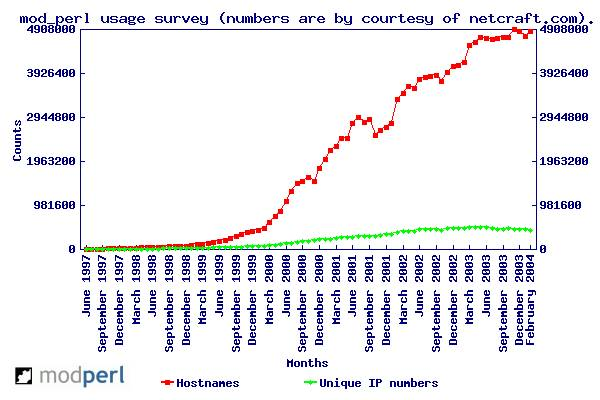
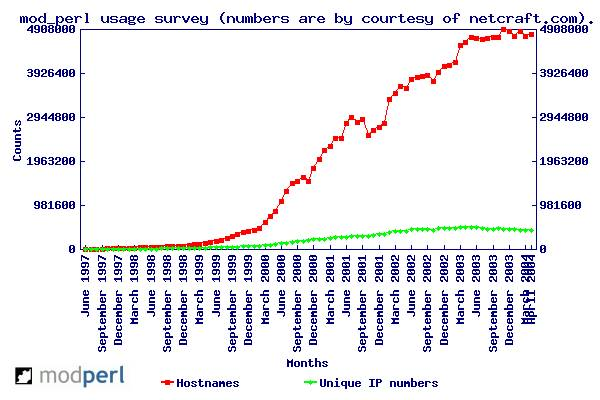
2004 Mar-Apr stats update
git-svn-id: https://svn.apache.org/repos/asf/perl/modperl/docs/trunk@67594 13f79535-47bb-0310-9956-ffa450edef68

Changed region(s): [[0.12, 0.06, 0.9, 0.9]]

diff --git a/src/outstanding/stats/netcraft.html b/src/outstanding/stats/netcraft.html
@@ -19,18 +19,20 @@ mod_perl usage Graph">
 the <a href="input.data"> raw input data </a> is available.</p>
 
 <p> If your site is running mod_perl, <a
-href="http://www.netcraft.co.uk/up/graph/">tell</a> the Netcraft
+href="http://uptime.netcraft.com/up/graph">tell</a> the Netcraft
 survey.
 </p>
 
 <!-- monthly reports can be retrieved from
-http://www.netcraft.com/survey/Reports/0403/mod_perl.txt, adjust the
+http://www.netcraft.com/survey/Reports/0405/mod_perl.txt, adjust the
 year/month if needed. used to be
 http://www.netcraft.com/survey/Reports/200206/mod_perl.txt till July
 2002 -->
 
 <table cellpadding="3" border="1" cellspacing="0">
 <tr><th>Survey</th><th>Hostnames</th><th>Unique IP Addresses</th></tr>
+<tr><td> April 2004     </td><td>4805660</td><td>435010</td></tr>
+<tr><td> March 2004     </td><td>4749073</td><td>433932</td></tr>
 <tr><td> February 2004  </td><td>4864343</td><td>432188</td></tr>
 <tr><td> January 2004   </td><td>4746587</td><td>437794</td></tr>
 <tr><td> December 2003  </td><td>4869752</td><td>450912</td></tr>

diff --git a/src/outstanding/stats/securityspace.html b/src/outstanding/stats/securityspace.html
@@ -7,12 +7,12 @@
 <body bgcolor="#ffffff">
 
 <p> SecuritySpace provides an <a
-href="http://www.securityspace.com/s_survey/data/man.200402/apachemods.html?mod=cGVybA==">Apache
+href="http://www.securityspace.com/s_survey/data/man.200404/apachemods.html?mod=cGVybA==">Apache
 Module Report on mod_perl</a> comprising statistics and a graph based
 on the data collected by <a
 href="http://www.securityspace.com/">www.securityspace.com</a>. They
 also feature <a
-href="http://www.securityspace.com/s_survey/data/man.200402/apachemods.html">a
+href="http://www.securityspace.com/s_survey/data/man.200404/apachemods.html">a
 comparison</a> between all the Apache modules they survey.  </p>
 
 </body>
